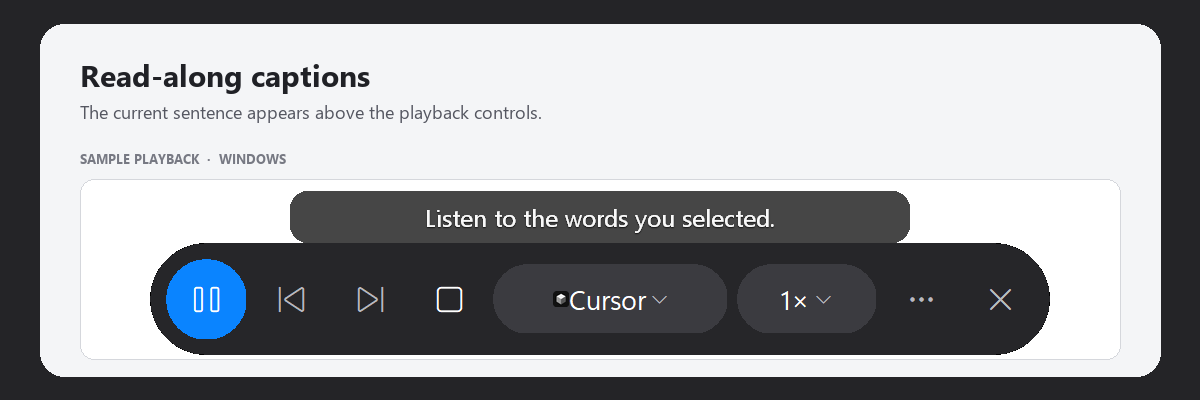
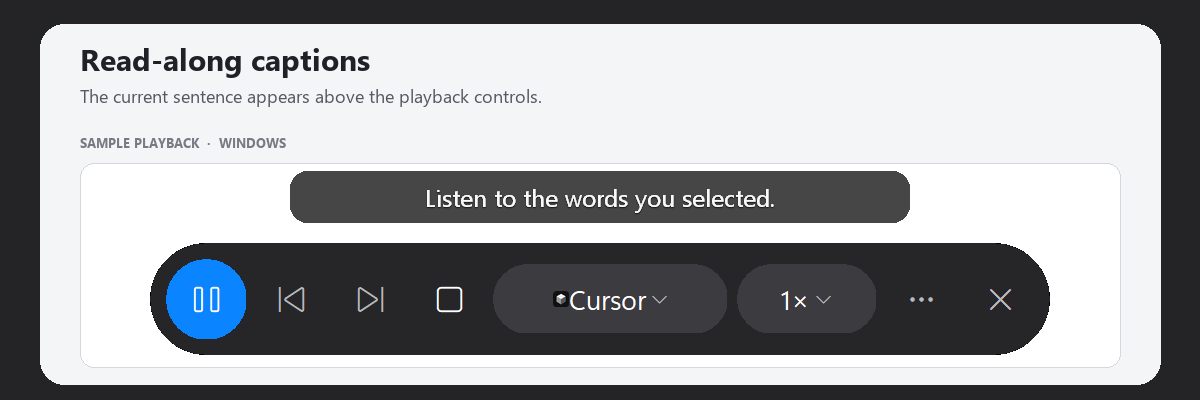
Add spacing to caption promotion sample

diff --git a/docs/promotion-assets.md b/docs/promotion-assets.md
@@ -6,7 +6,7 @@ These files document the current Windows selection and playback UI at reference 
 | --- | ---: | --- |
 | `popup.png` | 1200 × 560 | Styled sample-document frame containing the native 742 × 112 idle selection toolbar at 1:1 pixels. Shows a sample selected passage and the current Windows toolbar. |
 | `toolbar.png` | 742 × 112 | Exact native crop of the idle toolbar from `harness_discussion.win.popup.Popup` / `_BarButton`, captured with Tk at 200% rendering (`tk scaling=2.664044575549`). Reusable, unframed component detail. |
-| `captions.png` | 1200 × 400 | Styled light document within a charcoal surround, using the production caption line over the native 900 × 112 playing toolbar at 1:1 pixels. The line is the production `GdiLine` renderer (`harness_discussion.win.captions`) with sample text. |
+| `captions.png` | 1200 × 400 | Styled production-rendered sample within a light document and charcoal surround, using the production `GdiLine` caption line over the native 900 × 112 playing toolbar at 1:1 pixels with a 20 px visible gap. This is not a live playback screenshot. |
 | `settings.png` | 946 × 1196 | Exact full native Windows Settings capture of `harness_discussion.win.settings_ui.SettingsWindow`, on Voices, at the process's actual scale (`1.3339898243886428`). |
 | `social.png` | 1200 × 630 | Share card with the current `icon.png`, short selection/listening copy, and the same native toolbar pixels at 1:1. Prepared for repository social-preview upload after this PR merges. |
 
